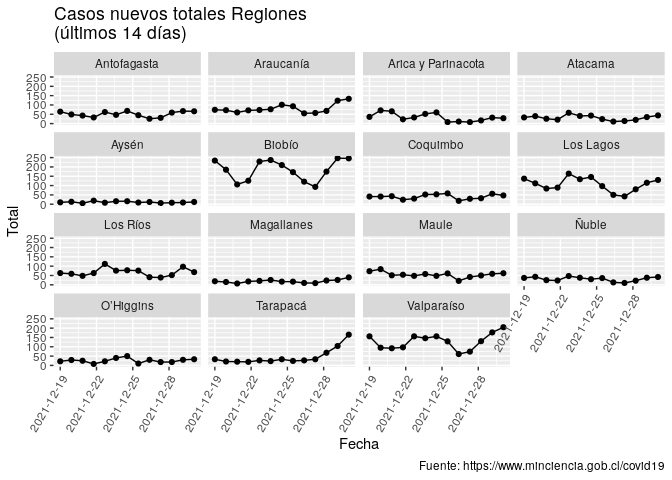
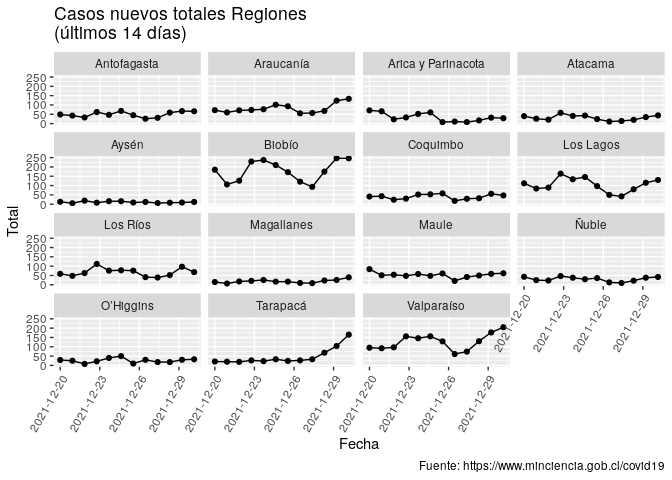
Re-build Rmarkdown files

diff --git a/README.md b/README.md
@@ -3,7 +3,7 @@
 
 Ejemplo de uso de total\_casos de COVID recopilados por el Ministerio de
 Ciencia de Chile <https://www.minciencia.gob.cl/covid19>. Última
-actualización: 2022-01-01
+actualización: 2022-01-02
 
 ## Visualización desde el comienzo de la pandemia
 
